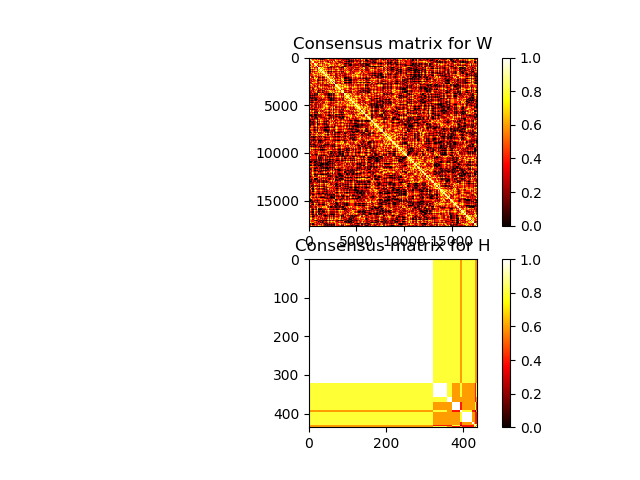
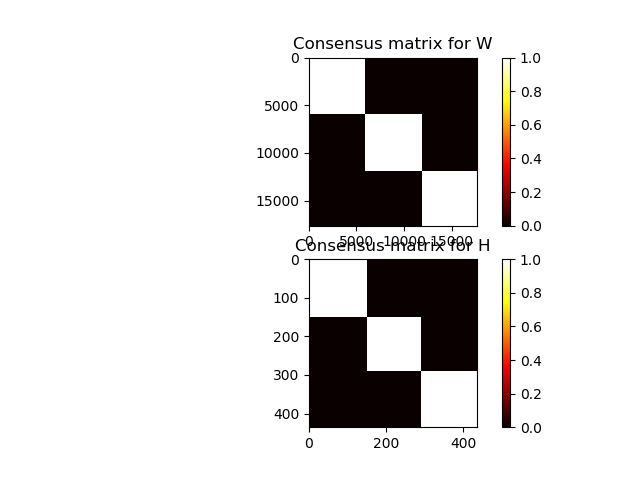
Minor changes

Changed region(s): [[0.4688, 0.125, 0.75, 0.4688], [0.4688, 0.5312, 0.75, 0.9062]]

diff --git a/depmap/python/get-rank.py b/depmap/python/get-rank.py
@@ -1,33 +1,22 @@
 import pandas as pd
 import numpy as np
 import matplotlib.pyplot as plt
-
 from fn_consensus import *
 from fn_nmf import *
 
 X = pd.read_csv(r'C:/Users/Vaibhav/nmf/inputs/portal-Avana-2018-06-08-n.csv', index_col=0, header=0, na_values='NaN')
-#X = pd.read_csv(r'C:\Users\Vaibhav\nmf\projects\jfcr39\input/input_small_data_DRUG.zero-one.csv', index_col=0, header=0, na_values='NaN')
 X = X.fillna(0)
 mX = 1 - X.isnull()
 
 maxit = 1
 runs = 1
 
-for rank in range (2,31):
-	cmatrix = ConsensusMatrix(X)
+for rank in range (3,31):
+	cmatrix = CMatrix(X)
 
 	error = 0
 
 	for run in range(runs):
-		'''
-		jnmf = JointNMF_mask(X, mX, rank, maxit)
-		jnmf.check_nonnegativity()
-		jnmf.initialize_W_H()
-		#jnmf.update_euclidean_multiplicative()
-		jnmf.wrapper_calc_euclidean_multiplicative_update()
-		jnmf.print_distance_of_HW_to_X(i)
-		#error += nmf.toterr
-		'''
 		jnmf = NMF(X, mX, rank, maxit)
 		error += jnmf.err
 		connW = cmatrix.calcConnectivityW(jnmf.W)
@@ -35,8 +24,6 @@ for rank in range (2,31):
 		cmatrix.addConnectivityMatrixtoConsensusMatrix(connW, connH)
 	
 	print("Error for rank %d is %f" % (rank, error))
-	#error /= runs
-	#print("Error for rank %d is %f" % (rank, error))
 
 	cmatrix.finalizeConsensusMatrix()
 
@@ -54,5 +41,9 @@ for rank in range (2,31):
 	plt.colorbar()
 
 	plt.suptitle("Consensus matrices for rank = %d" % (rank), size=16)
-
-	plt.show()
+	savedir = '../consensus-matrices'
+	if not os.path.exists(savedir):
+		os.mkdir(savedir)
+	plt.savefig(savedir + "/k = %d" % (rank))
+	plt.clf()
+	#plt.show()

diff --git a/depmap/python/classsingle_nmf.py b/depmap/python/classsingle_nmf.py
@@ -27,7 +27,7 @@ class JointNMF_mask(object):
         
         
     def initialize_W_H(self):
-        self.W = pd.DataFrame(np.random.rand(self.X1.shape[0], self.rank), index = self.X1.shape[0], columns = map(str, range(1, self.rank+1)))
+        self.W = pd.DataFrame(np.random.rand(self.X1.shape[0], self.rank), index = list(self.X1.index), columns = map(str, range(1, self.rank+1)))
         self.H1 = pd.DataFrame(np.random.rand(self.rank, self.X1.shape[1]), index = map(str, range(1, self.rank+1)), columns = self.X1.columns)
         self.X1r_pre = np.dot(self.W, self.H1)
         self.eps = np.finfo(self.W.as_matrix().dtype).eps

diff --git a/depmap-sparse/python/get-rank.py b/depmap-sparse/python/get-rank.py
@@ -8,7 +8,7 @@ from fn_consensus import *
 X = pd.read_csv(r'C:/Users/Vaibhav/nmf/inputs/portal-Avana-2018-06-08-n.csv', index_col=0, header=0)
 X = X.fillna(0)
 
-iterations = 100
+iterations = 5
 
 beta = 3
 sparsity = 10
@@ -42,4 +42,8 @@ for rank in range (3,31):
 	plt.title('Consensus matrix for H')
 	plt.colorbar()
 	#plt.show()
-	plt.savefig("C:/Users/Vaibhav/nmf/depmap-sparse/consensus-matrices/k = %d, beta= %d" % (rank, beta))
+	savedir = '../consensus-matrices'
+	if not os.path.exists(savedir):
+		os.mkdir(savedir)
+	plt.savefig(savedir + "/k = %d, beta= %d" % (rank, beta))
+	plt.clf()

diff --git a/depmap/python/normalize-data.py b/depmap/python/normalize-data.py
@@ -1,5 +1,5 @@
 import pandas as pd
 
-df = pd.read_csv(r'C:/Users/Vaibhav/nmf/inputs/portal-Avana-2018-06-08.csv', header=0, index_col=0, na_values='NaN')
+df = pd.read_csv(r'C:/Users/Vaibhav/nmf/inputs/portal-GeCKO-2018-05-30.csv', header=0, index_col=0, na_values='NaN')
 X = (df - df.min()) / (df.max() - df.min())
-X.to_csv('C:/Users/Vaibhav/nmf/inputs/portal-Avana-2018-06-08-n.csv')
+X.to_csv('C:/Users/Vaibhav/nmf/inputs/portal-GeCKO-2018-05-30-n.csv')

diff --git a/depmap/python/fn_consensus.py b/depmap/python/fn_consensus.py
@@ -5,7 +5,7 @@ from scipy.cluster.hierarchy import linkage, leaves_list
 from scipy.spatial.distance import squareform
 
 
-class ConsensusMatrix(object):
+class CMatrix(object):
 	def __init__(self, X1):
 		self.cmW = pd.DataFrame(np.zeros((X1.shape[0], X1.shape[0])))
 		self.cmH = pd.DataFrame(np.zeros((X1.shape[1], X1.shape[1])))

diff --git a/depmap/python/fn_nmf.py b/depmap/python/fn_nmf.py
@@ -18,7 +18,7 @@ class NMF():
 		self.eps = np.finfo(self.W.values.dtype).eps
 
 		self.update()
-		self.err = self.totalerror/self.iter
+		self.err = self.toterr/self.maxit
 
 	def update(self):
 		for i in range(self.maxit):
